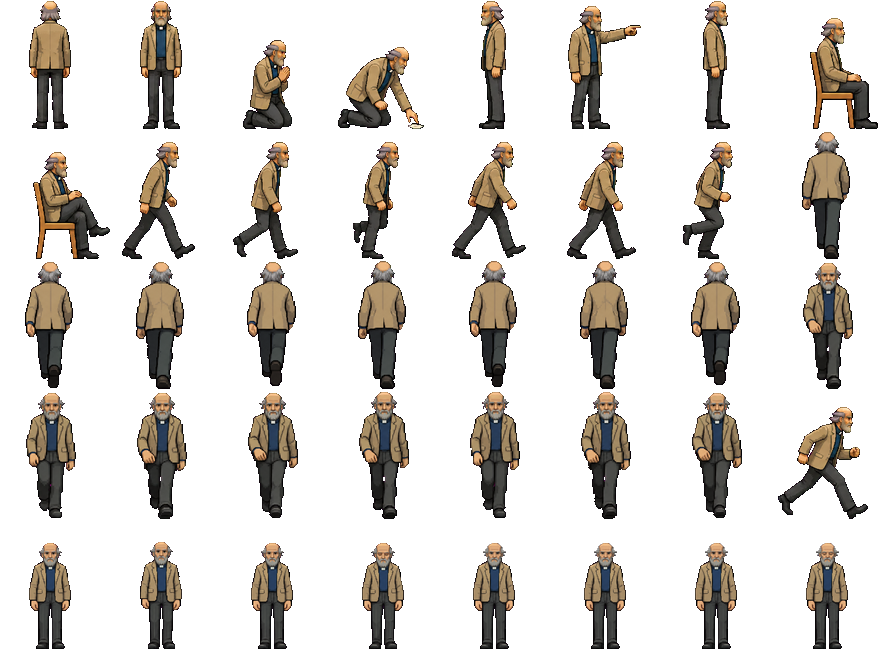
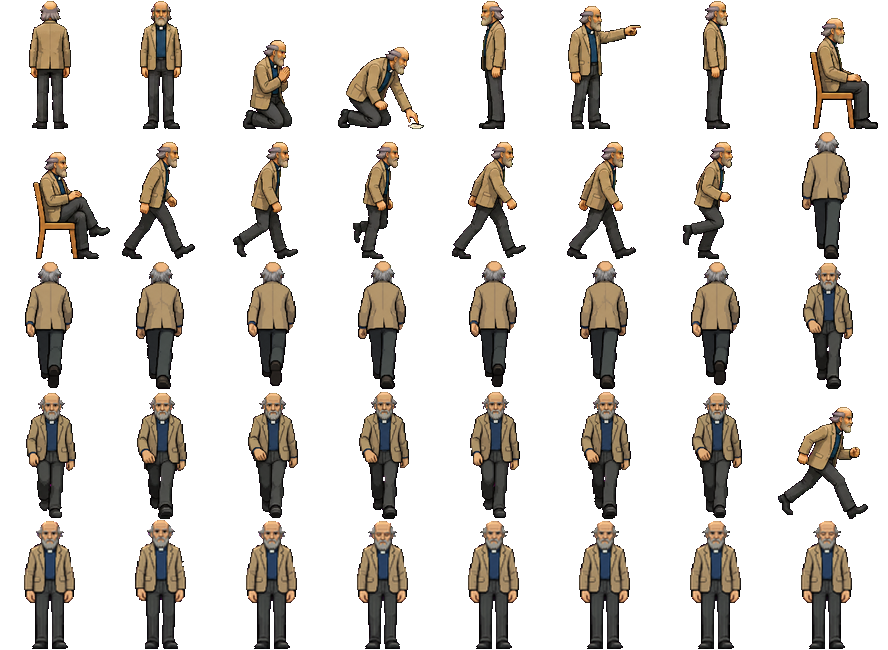
Leonardo e prete: pose da fermo riparate (gambe tagliate / dimensione)

diff --git a/index.html b/index.html
@@ -1880,7 +1880,7 @@ document.addEventListener('wheel',e=>{if(e.ctrlKey)e.preventDefault()},{passive:
 document.addEventListener('visibilitychange',()=>{if(document.hidden){if(SILENT_EL)SILENT_EL.pause()}else if(AU.ctx)unmuteSilentSwitch();if(AU.ctx){if(document.hidden)AU.ctx.suspend();else AU.ctx.resume()}});
 
 /* aggiornamento automatico: se sul server c'e' una versione piu' nuova di questa, ricarica una volta (cancella anche le copie salvate) */
-const BUILD='8 nov 12:30';
+const BUILD='8 nov 13:00';
 {const ve=document.getElementById('ver');if(ve)ve.textContent='v. '+BUILD;
  if(location.protocol.startsWith('http')){
   fetch(location.pathname+'?nc='+Date.now(),{cache:'no-store'}).then(r=>r.ok?r.text():'').then(t=>{

diff --git a/sw.js b/sw.js
@@ -1,7 +1,7 @@
 // Service worker: il gioco funziona offline.
 // - i file del gioco (immagini, audio, icone) sono salvati alla prima apertura (sempre scaricati freschi: cache reload) e serviti dalla memoria del telefono;
 // - la pagina e questo file si chiedono prima alla rete (cosi' gli aggiornamenti arrivano subito) e, senza rete, si usa la copia salvata.
-const VERSION = "8 nov 12:30";
+const VERSION = "8 nov 13:00";
 const CACHE = "mistero-" + VERSION;
 const FILES = [
   "./",
